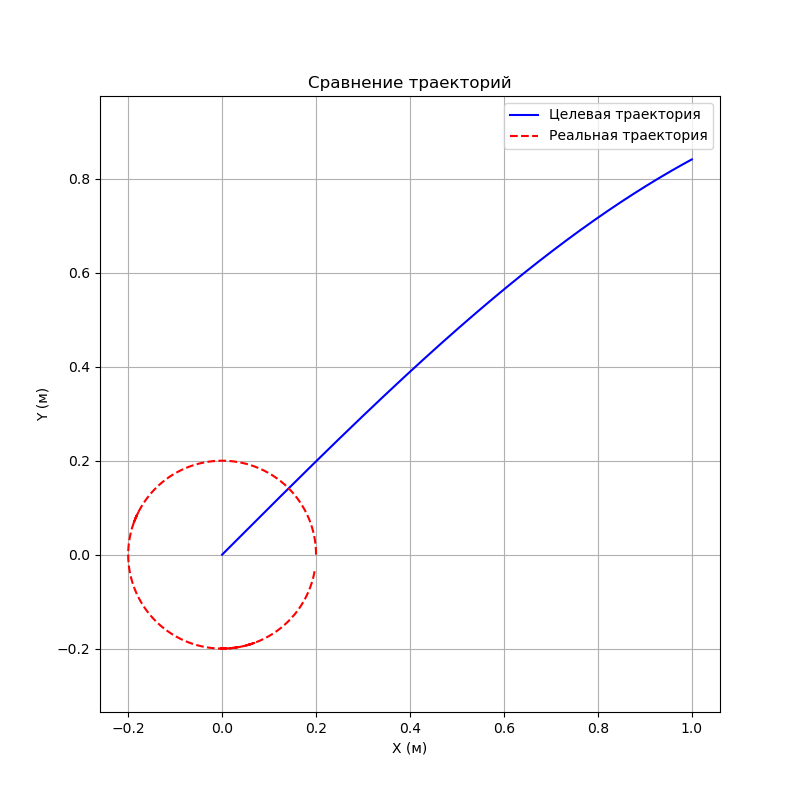
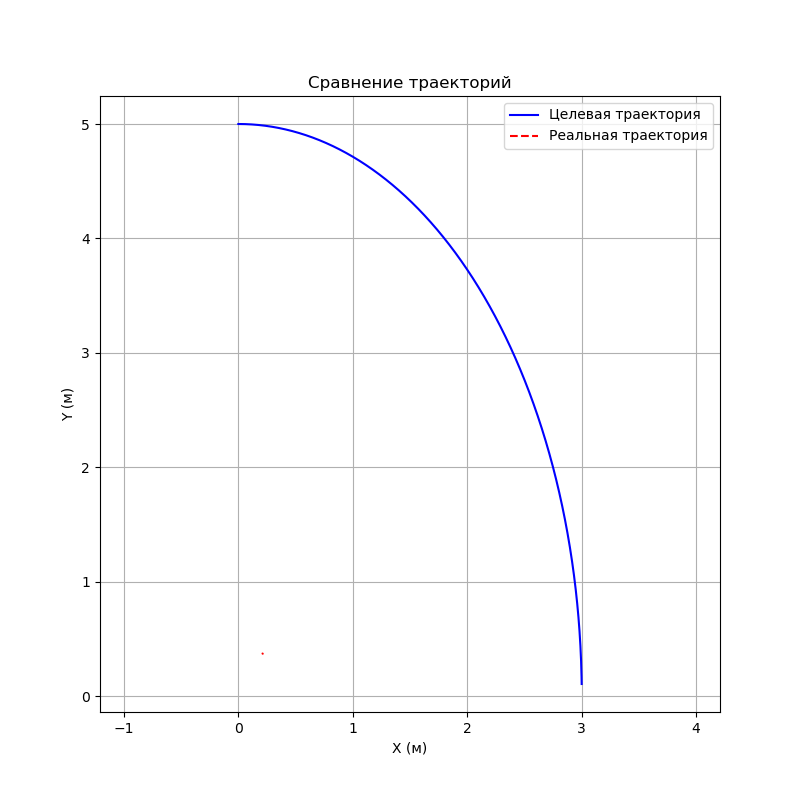
compiled code

diff --git a/src/metric.py b/src/metric.py
@@ -18,11 +18,12 @@ def get_function_trajectory(func_str, x_min=-10, x_max=10, N=1000):
 
 def MSE_func(model_xml, func):
     # Загрузка модели
-    model = mujoco.MjModel.from_xml_string(model_xml)
+    # model = mujoco.MjModel.from_xml_string(model_xml)
+    model = mujoco.MjModel.from_xml_path("/home/kirill/vs_code_pr/ROMS_course_work/parsed_mechanism.xml")
     data = mujoco.MjData(model)
 
     # Параметры симуляции
-    T = 1.0  # Время симуляции (секунды)
+    T = 10.0  # Время симуляции (секунды)
     dt = model.opt.timestep  # Шаг времени
     N = int(T / dt)  # Количество шагов
 
@@ -31,21 +32,41 @@ def MSE_func(model_xml, func):
 
     actual_traj = np.zeros((N, 2))
 
-    tracker_id = mujoco.mj_name2id(model, mujoco.mjtObj.mjOBJ_SITE, "tracker")
+    tracker_id = mujoco.mj_name2id(model, mujoco.mjtObj.mjOBJ_SITE, "site_3")
+    if tracker_id == -1:
+        raise ValueError("Сайт 'site_3' не найден в модели")
 
-    # Симуляция без визуализатора
-    for i in range(N):
-        # Простое управление: синусоидальный сигнал
-        data.ctrl[0] = 5.0 * np.sin(2 * np.pi * i * dt)
+    # Запуск визуализатора
+    with mujoco.viewer.launch_passive(model, data) as viewer:
+        for i in range(N):
+            # Простое управление: синусоидальный сигнал
+            data.ctrl[0] = 5.0 * np.sin(2 * np.pi * i * dt)
 
-        # Шаг симуляции
-        mujoco.mj_step(model, data)
+            # Шаг симуляции
+            mujoco.mj_step(model, data)
 
-        # Сохраняем позицию site по ID
-        tracker_pos = data.site_xpos[tracker_id][:2]
-        actual_traj[i] = tracker_pos
+            # Сохраняем позицию site по ID
+            tracker_pos = data.site_xpos[tracker_id][:2]
+            actual_traj[i] = tracker_pos
+
+            # Синхронизация с визуализатором
+            viewer.sync()
+            time.sleep(dt)
 
     # MSE между целевой и реальной траекторией
     mse = np.mean((actual_traj - target_traj) ** 2)
+
+    # Визуализация траекторий
+    plt.figure(figsize=(8, 8))
+    plt.plot(target_traj[:, 0], target_traj[:, 1], 'b-', label='Целевая траектория')
+    plt.plot(actual_traj[:, 0], actual_traj[:, 1], 'r--', label='Реальная траектория')
+    plt.xlabel('X (м)')
+    plt.ylabel('Y (м)')
+    plt.title('Сравнение траекторий')
+    plt.legend()
+    plt.grid(True)
+    plt.axis('equal')
+    plt.savefig('trajectory_comparison.png')
+    plt.show()
 
     return mse

diff --git a/src/main.py b/src/main.py
@@ -5,16 +5,13 @@ from mechanism_generator.simulate_graph import generate_mujoco_xml
 if __name__ == "__main__":
     node_ids = ['A', 'B', 'C', 'D']  # Задаем узлы для генерации топологий
 
-    func = "5 * np.sqrt(1 - (x**2) / (3**2))"
+    func = "5 * sqrt(1 - (x**2) / (3**2))"
 
     n = 0
     for graph in graphs_generator(node_ids, min_length=1.0, max_length=3.0, step=1.0):
         xml = generate_mujoco_xml(graph)
         mse_score = MSE_func(xml, func)
         print(MSE_func(xml, func))
-        if mse_score <= 0.8:
-            print (graph)
-            break
         n += 1
-        if n == 100:
+        if n == 1:
             break
